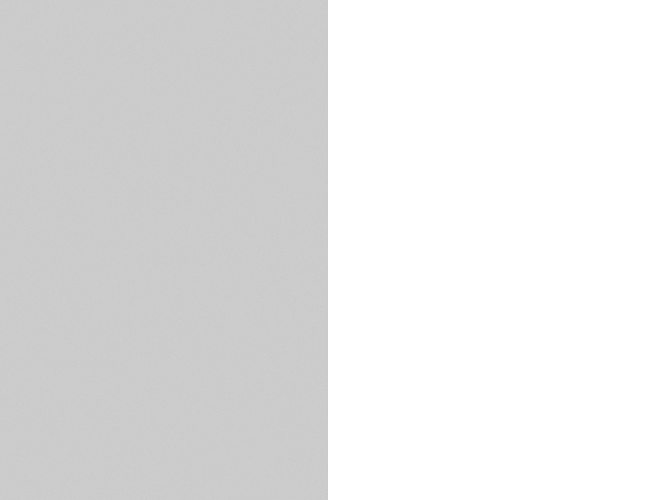
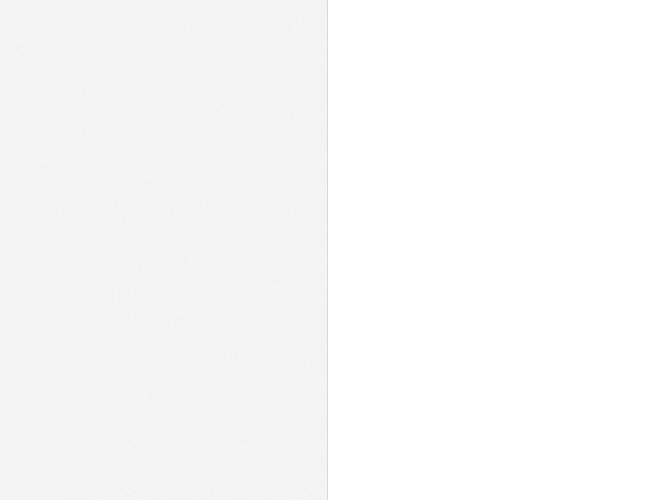
add

diff --git a/src/config.py b/src/config.py
@@ -198,3 +198,36 @@ class SmartFactoryConfig:
                 'ris_state': True
             }
         }
+
+        # In config.py, update the cameras configuration:
+        self.cameras = {
+            'top': {
+                'position': [10.0, 10.0, 20.0],
+                'look_at': [10.0, 10.0, 0.0],
+                'up': [0.0, 1.0, 0.0],
+                'fov': 60.0,
+                'filename': 'top_view.png'
+            },
+            'side': {
+                'position': [35.0, 10.0, 5.0],
+                'look_at': [10.0, 10.0, 2.5],
+                'up': [0.0, 0.0, 1.0],
+                'fov': 45.0,
+                'filename': 'side_view.png'
+            },
+            'corner': {
+                'position': [30.0, 30.0, 15.0],
+                'look_at': [10.0, 10.0, 2.5],
+                'up': [0.0, 0.0, 1.0],
+                'fov': 50.0,
+                'filename': 'corner_view.png'
+            }
+        }
+
+        # Add render configuration
+        self.render_config = {
+            'width': 1920,
+            'height': 1080,
+            'background_color': [0.8, 0.8, 0.8],
+            'ambient_light': [0.3, 0.3, 0.3]
+        }

diff --git a/src/main.py b/src/main.py
@@ -546,19 +546,28 @@ def main():
             raise ValueError("Scene setup failed")
         logger.debug("Scene setup completed")
 
-        # Add the camera configuration here:
-        logger.info("Configuring scene camera...")
+        # Configure camera and render settings
+        logger.info("Configuring scene camera and render settings...")
         scene.camera = {
             'position': [30.0, 10.0, 2.5],  # Side view
             'look_at': [10.0, 10.0, 2.5],   # Look at center
             'up': [0, 0, 1]
         }
 
-        # Then continue with the existing code:
+        # Set render configuration
+        scene.render_config = {
+            'width': 1920,
+            'height': 1080,
+            'background_color': [0.8, 0.8, 0.8]  # Light gray background
+        }
+
+        # Verify LOS paths and preview
         verify_los_paths(scene)
         scene.preview()
+
+        # Render with "preview" camera
         scene.render_to_file(
-            camera="preview",
+            camera="preview",  # Use "preview" instead of "camera"
             filename="my_scene_preview.png"
         )
 
